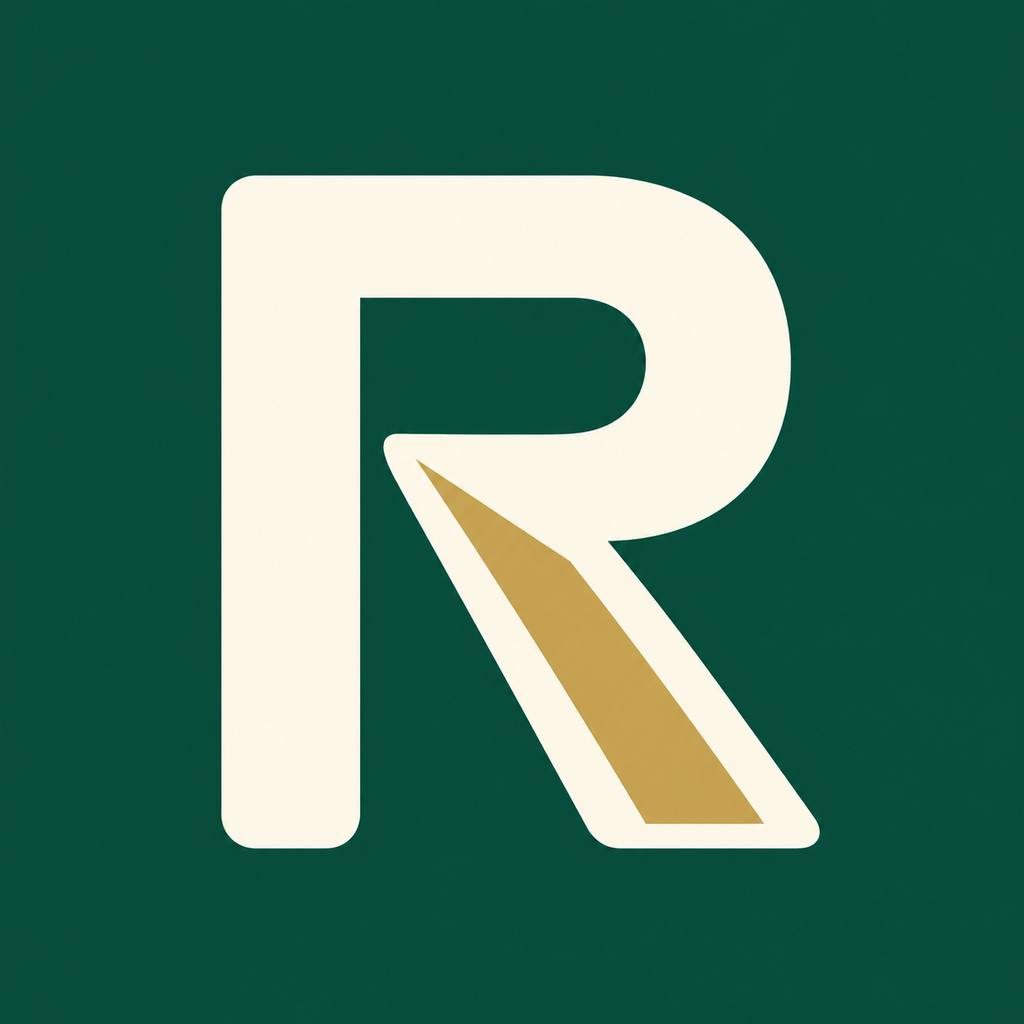
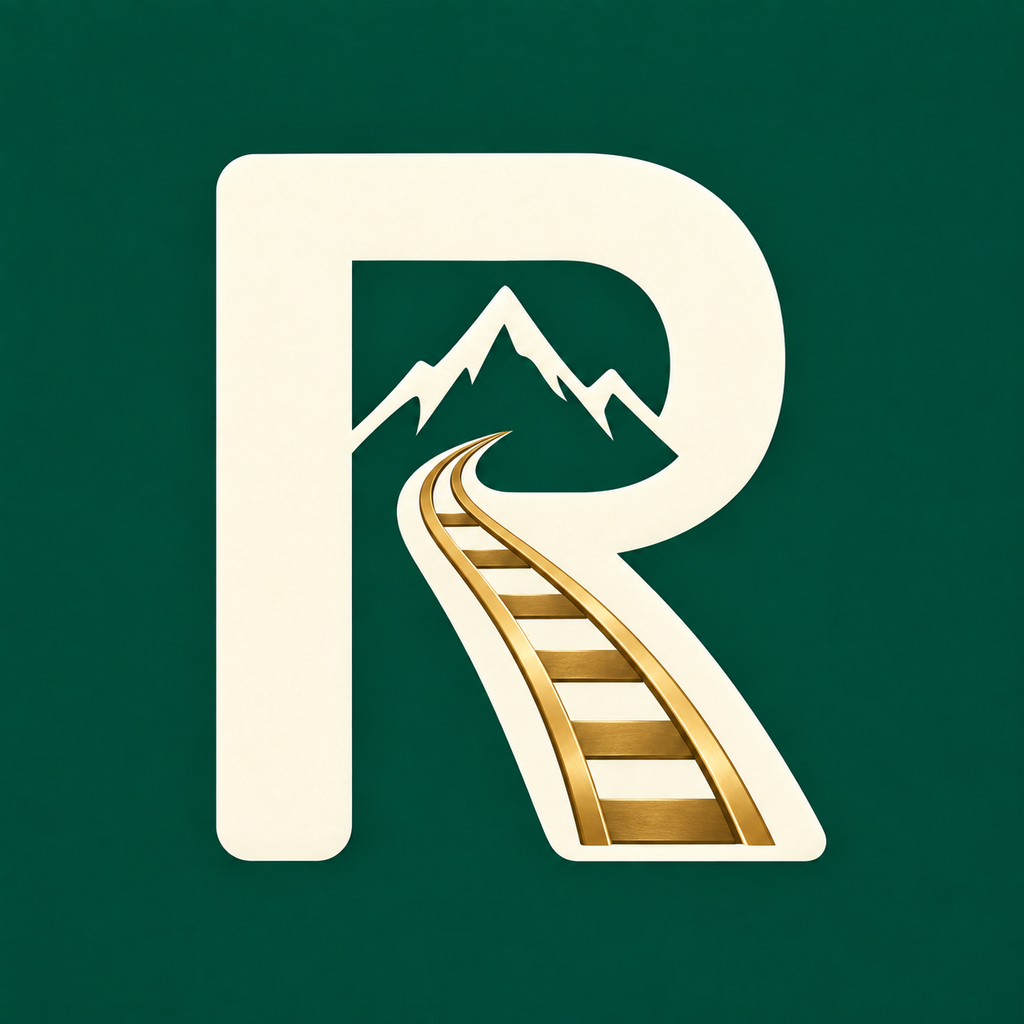
Apply approved mountain-R branding across Rallii

diff --git a/docs/icon-revision.md b/docs/icon-revision.md
@@ -1,9 +1,9 @@
-# Rallii icon revision
+# Rallii mountain-R icon revision
 
-The small compass illustrations were replaced with a bold R monogram in the family green, cream and gold palette. The same source supplies the shared in-app mark, browser/Apple/PWA icons, legacy icon endpoint, and prepared iOS/Android assets. A separate maskable export keeps the mark within a circular crop.
+The approved enhanced mountain-R artwork replaces the previous R monogram. A cream R incorporates alpine peaks and a curved gold railway on forest green. Destination photography is unchanged.
 
-Source: `assets/branding/rallii-monogram.png`, generated with the built-in image tool. Prompt: replace the intricate five illustrations and compass with one bold cream capital R, a restrained gold diagonal route accent, full-bleed forest green background, readable at 24px and 40px, no tiny decoration. This is brand artwork; destination photography remains sourced photography.
+Source: `assets/branding/rallii-monogram.png`. Regenerate exports with `node scripts/prepare-brand-icons.mjs`.
 
-Regenerate size exports with `node scripts/prepare-brand-icons.mjs`. The size review shows 24, 40, 60 and 120px exports.
+The shared RalliiMark component supplies desktop and mobile headers across Rail, Trail, MTB, Snow and Green. Exports also cover browser, Apple touch, PWA, the legacy PWA endpoint, and iOS/Android launcher assets. The maskable export retains a safe inset.
 
-OTA includes the in-app/web icons. Installed native launcher icons require a future signed binary; no iOS build upload or App Store submission change is included in this release.
+Web-layer branding can ship through the existing OTA workflow. Native launcher and App Store icons require a new signed iOS build; an OTA cannot replace those icons. App Review submission and metadata changes are separate actions.
